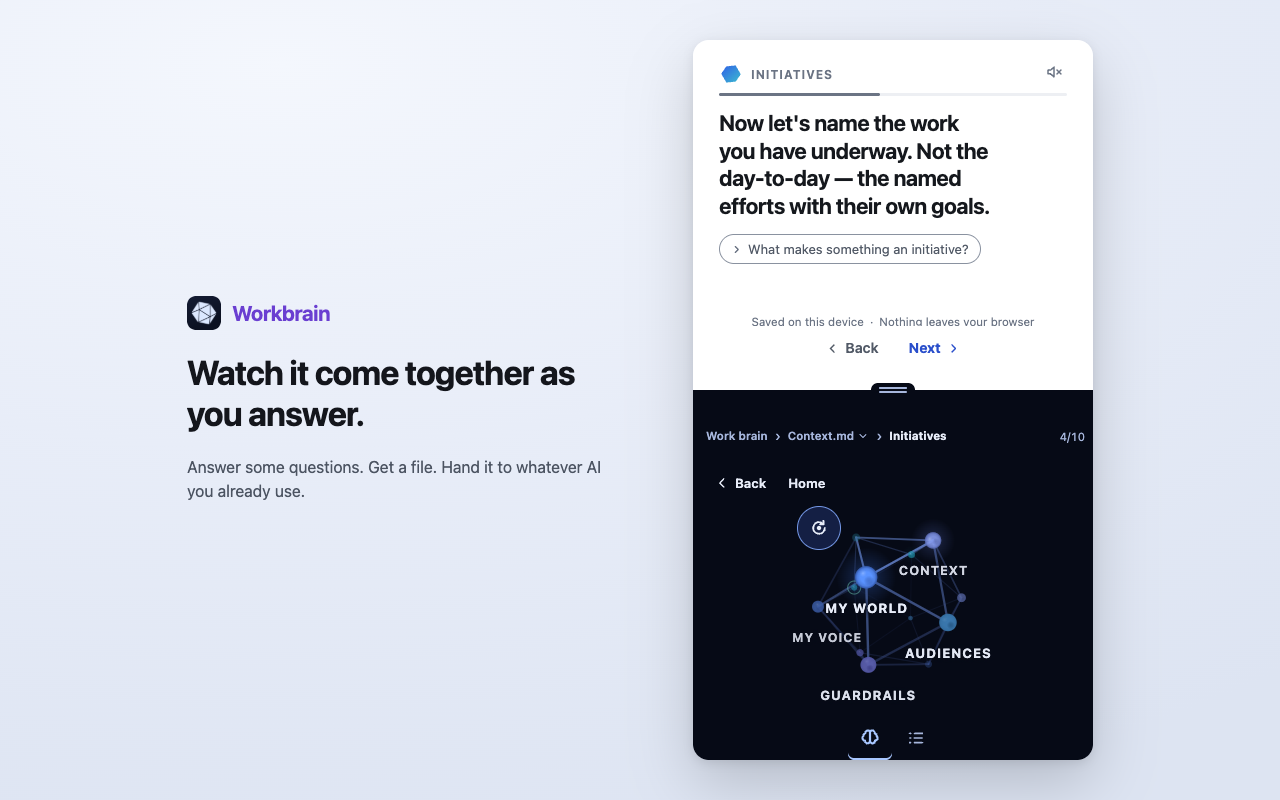
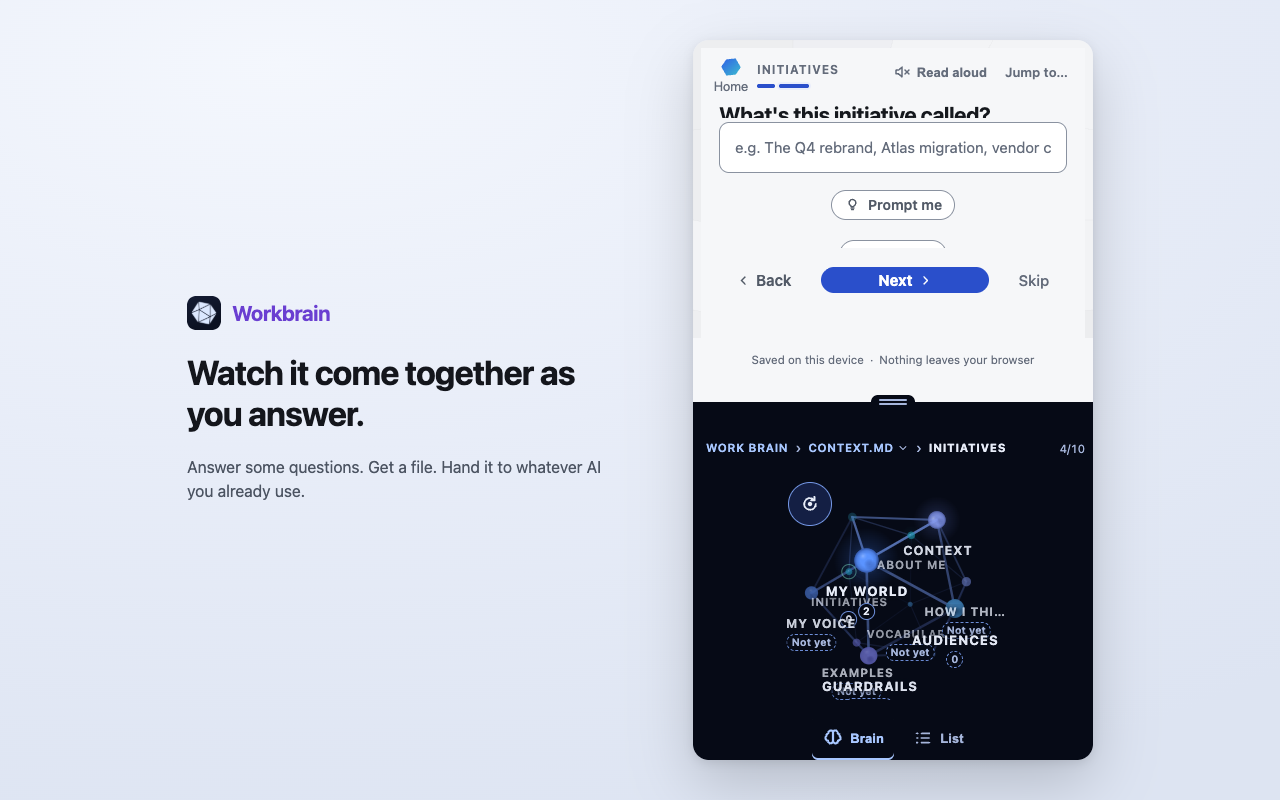
BR-03 (code half): the listing images stop shipping a validation error
`scripts/store-shots.mjs` photographs the real built extension, and it had
rotted against the sprint in four places at once — which is how the last four
images in store/ came to show a red error box.

  · Home's door into the interview is "Edit the file" since BS-06; the script
    still clicked "Go through the questions" and died at the first shot.
  · BS-07a's remainder DELETED `.brainglobe-nav`, which the brain shot waited
    on. It waits on the globe itself now — the thing the shot is actually of.
  · BS-05d's run card stands between two questions. A fine screen and a poor
    listing image, so the walk presses through it.
  · Its "found a question" check named `textarea.field` only, so a single-line
    question walked straight past it, the loop ran out pressing Next on an
    empty box, and the question wore "Answer this to keep going, or skip it."
    in red. It advances with SKIP now, which never validates — and which is
    what that shot's own caption promises anyway.

All five images regenerate. They are only as final as the copy in them, so
they get reshot after BR-01; the machinery is no longer the blocker.

npm run check green.

diff --git a/docs/BETA-REMAINDER.md b/docs/BETA-REMAINDER.md
@@ -190,14 +190,29 @@ until this read existed.
 The last item from Release 1, and the only one still open. **Most of it is not
 code**, which is why it has never fitted into a build sprint.
 
-### Already done
+### Already done — more than `docs/STORE.md`'s checklist suggests
+
+That checklist is stale; `store/` is further along than it says.
 
 - `manifest.config.ts` requests **only** `storage` and `sidePanel`, pinned by
   `manifest.spec.ts`.
 - Icons ship at 16 / 32 / 48 / 128 (`public/icons/`).
 - `npm run zip` builds `dist.zip` from a production build.
-- `docs/STORE.md` holds the single-purpose statement, the permission
-  justifications, the data disclosure, and a **draft** privacy policy.
+- **`scripts/store-shots.mjs` captures all five images from the REAL built
+  extension** — four 1280×800 shots and the 440×280 promo tile, the panel
+  composed onto a ground with one line of copy. The panel pixels are never
+  mocked, which is the whole point: a listing image that does not match what
+  installs is the fastest way to earn a one-star review.
+- `store/LISTING.md` and `store/PRIVACY.md` are drafted.
+
+**The script had rotted against the sprint** and is repaired (this commit):
+Home's door is "Edit the file" since BS-06, BS-07a's remainder deleted the
+`.brainglobe-nav` it waited on, BS-05d's run card now stands between two
+questions, and its "found a question" check named `textarea.field` only — so a
+single-line question walked past it, the loop ran out pressing Next on an empty
+box, and **the last four listing images shipped a red validation error.**
+Advancing with Skip rather than Next is the fix and is also what the shot's own
+caption promises.
 
 ### Not done — and none of it is code
 
@@ -208,8 +223,8 @@ code**, which is why it has never fitted into a build sprint.
 | Title, 45 chars | Adam | |
 | Short description, 132 chars | Adam | Leads with the person's problem, not the mechanism |
 | Detailed description | Adam | What it does, then the privacy position, then who it is for |
-| 1280×800 screenshots ×4 | **Blocked on BR-01** | Home, a question, the proof moment, the file — every one of them full of `[DRAFT]` copy today |
-| Small promo tile 440×280 | Design | |
+| 1280×800 screenshots ×4 | **Regenerate after BR-01** | The script is fixed and green; the images are only as final as the copy in them |
+| Small promo tile 440×280 | Done | `scripts/store-shots.mjs` |
 | Category: Productivity | Adam | |
 | Support URL | Adam | Needs somewhere to point |
 | Privacy policy **published at a URL** | Adam | The draft exists; it needs a host |
@@ -220,9 +235,10 @@ code**, which is why it has never fitted into a build sprint.
 still marked unread is a listing that has to be reshot. This is the one hard
 dependency between the three items.
 
-### The code half, such as it is
+### The code half, such as it is — **DONE**
 
-One slice, and it is verification rather than building:
+The shot script is repaired and all five images regenerate. What is left is
+verification:
 
 - `npm run zip` from a clean tree; unpack `dist.zip` and confirm the manifest
   in the artefact requests two permissions and nothing else.
